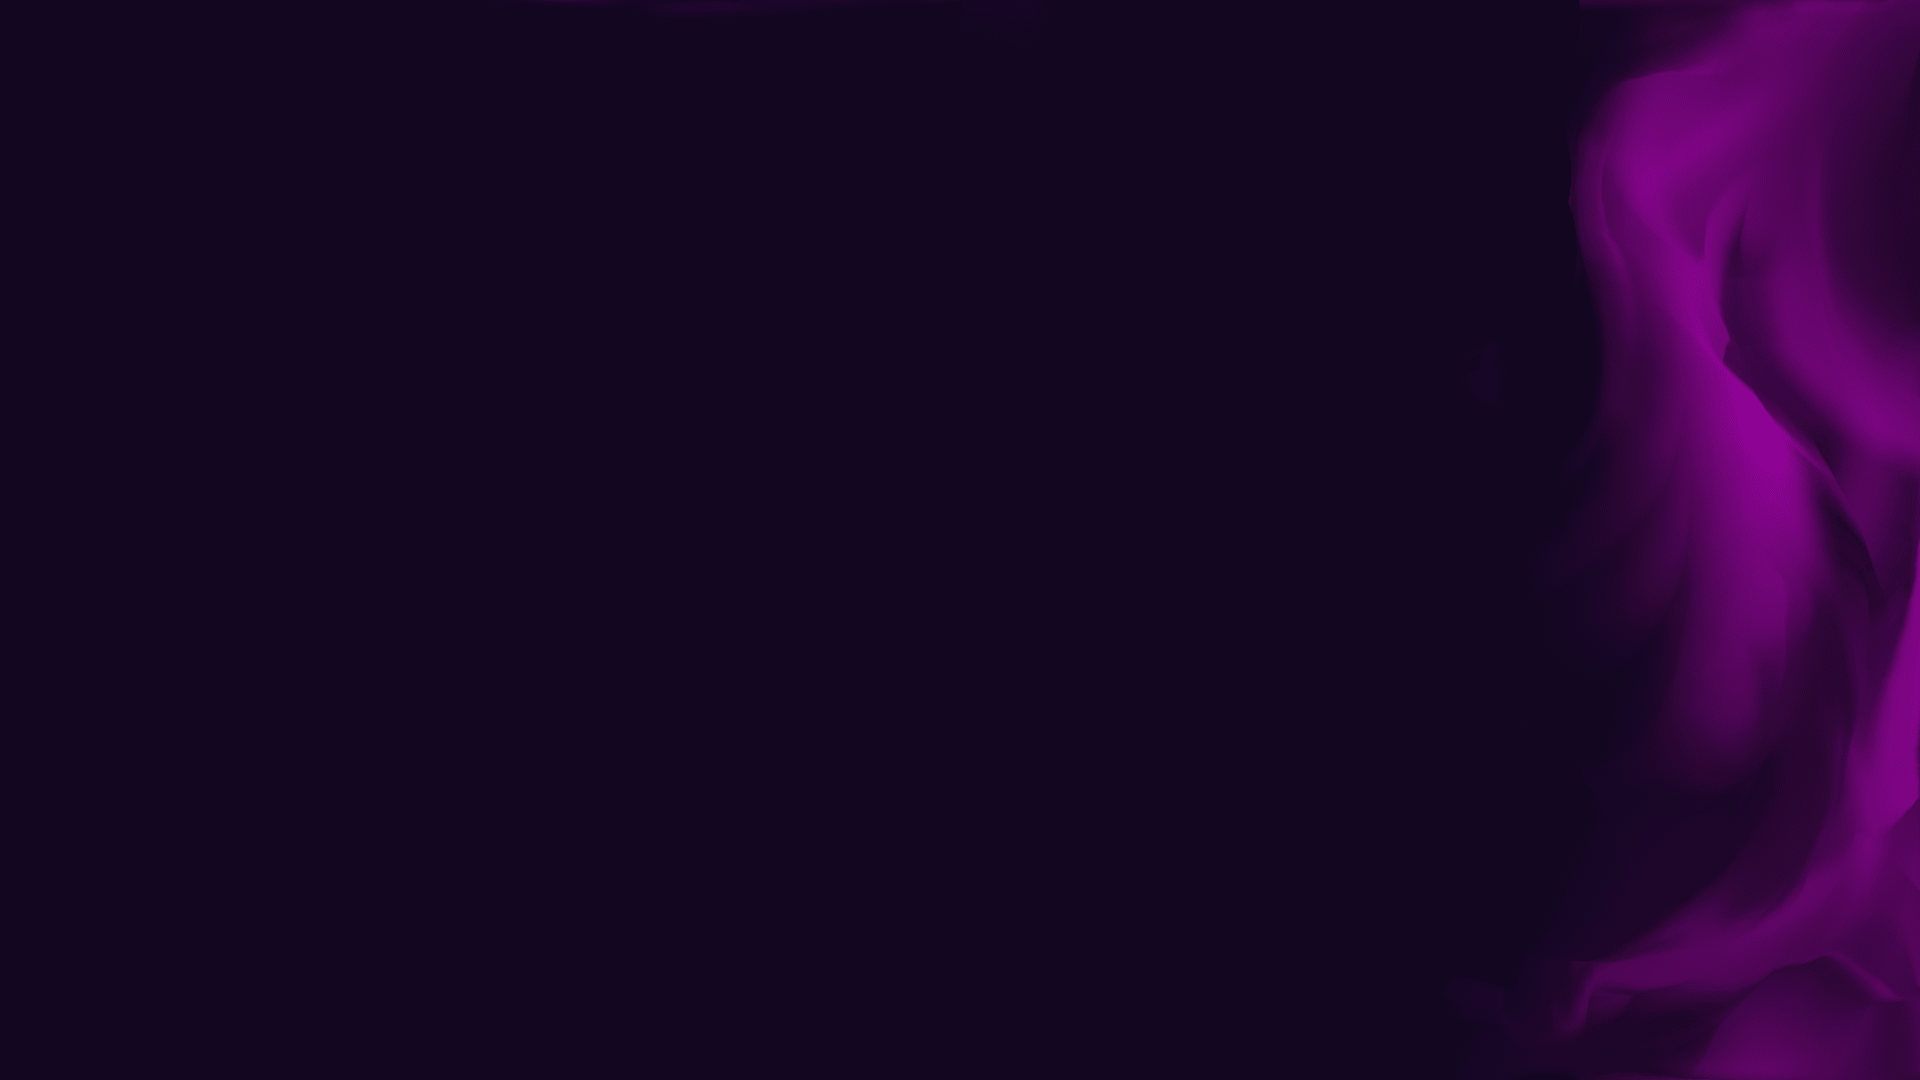
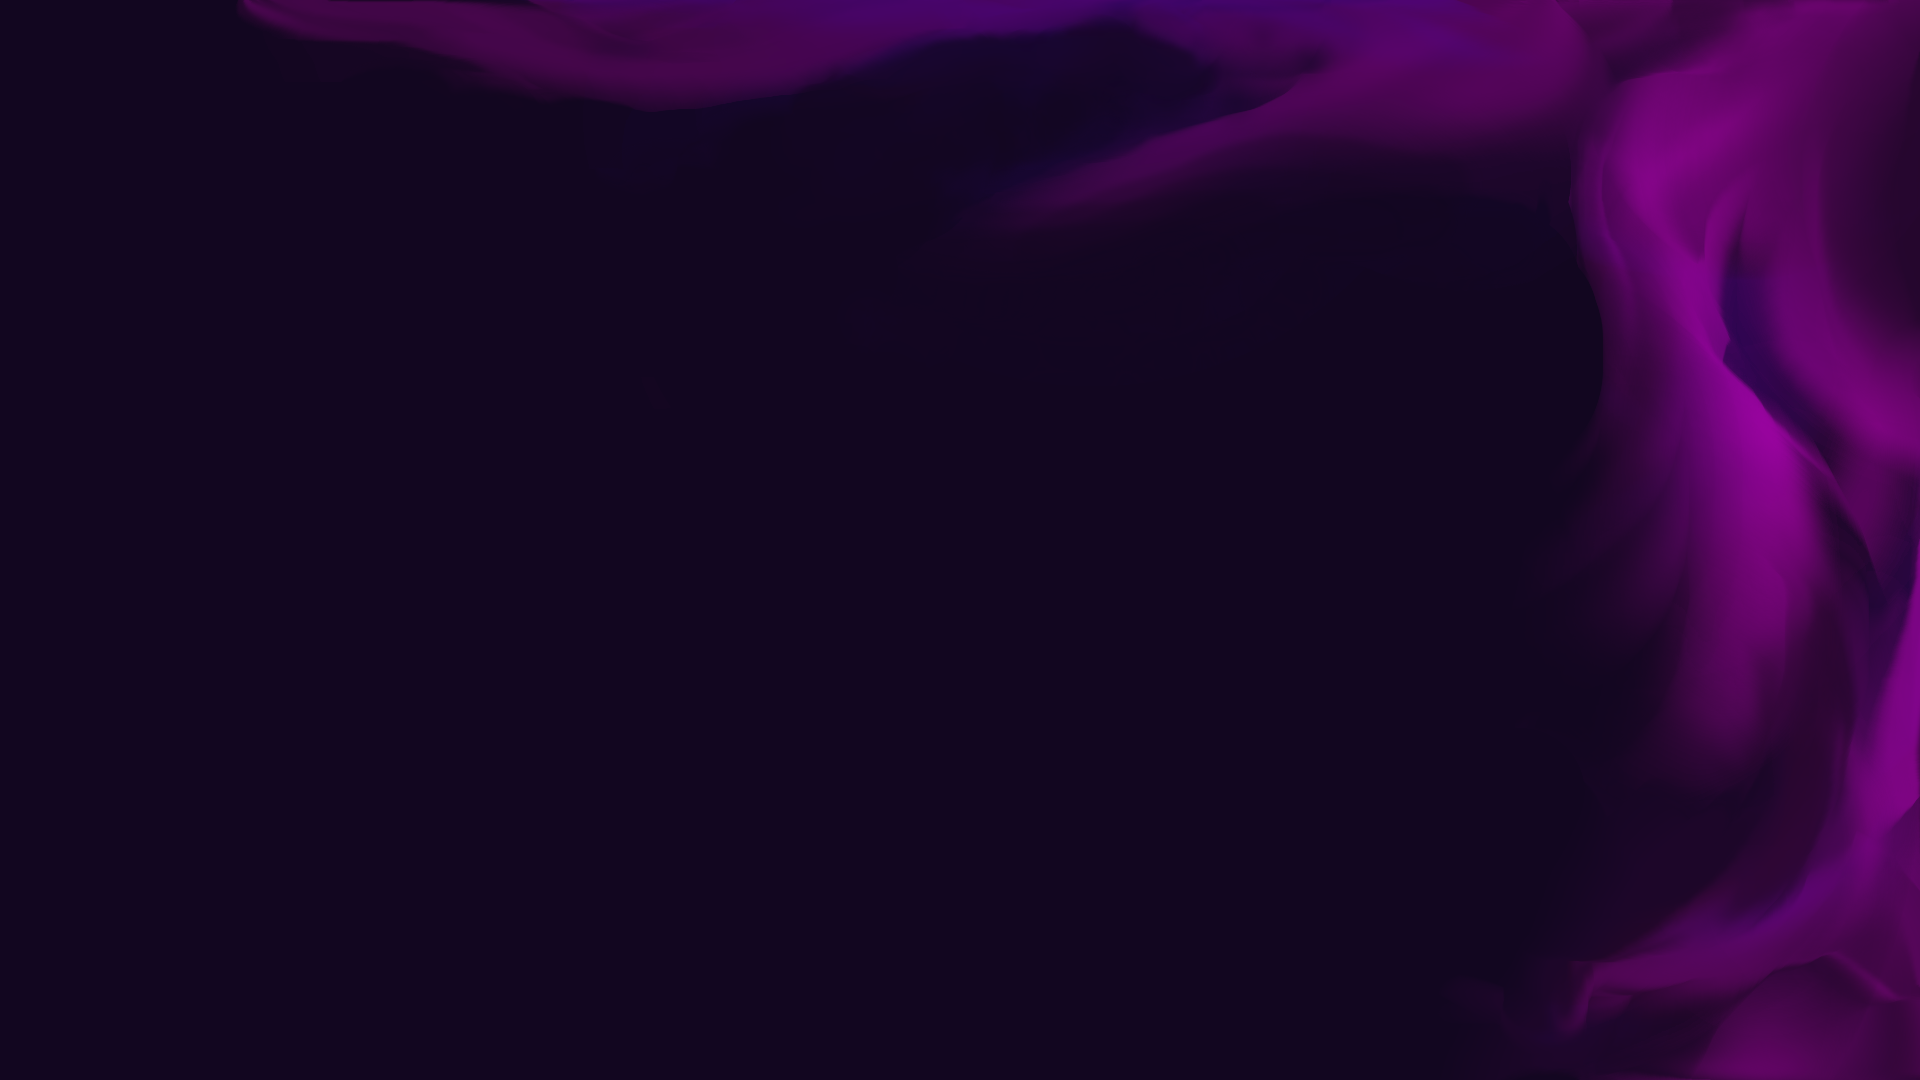
Add background images for all sections

Changed region(s): [[0.125, 0.0, 0.875, 0.2139]]

diff --git a/assets/css/style.css b/assets/css/style.css
@@ -213,11 +213,11 @@ section#gallery {
 }
 
 section#offer {
-     background: plum;
+     background: url('../images/background3.png') no-repeat center center/cover;
 }
 
 section#contact {
-     background: floralwhite;
+     background: url('../images/background1.png') no-repeat center center/cover;
 }
 
 @media only screen and (min-width: 50rem) {
